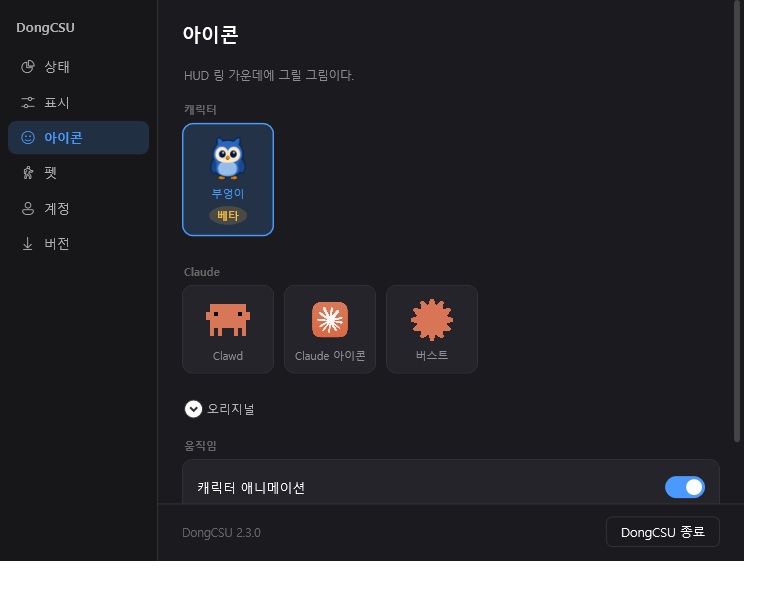
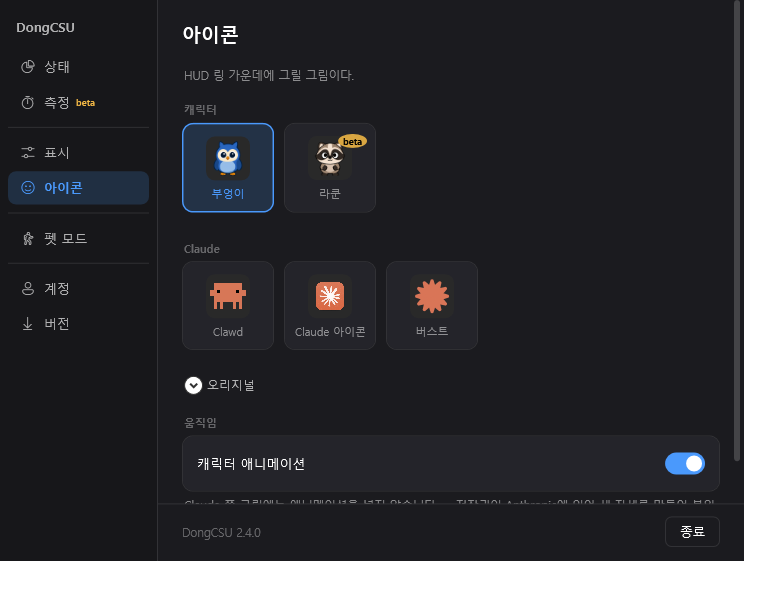
[Win] 📝 2.5.0 문서·스크린샷 갱신

diff --git a/win/docs/handoff.md b/win/docs/handoff.md
@@ -19,8 +19,7 @@
   win/README.md   사용자에게 보이는 설명
 
 지금 상태:
-- 최신 릴리스는 win-v2.1.0. 안 나간 변경이 쌓여 있다(변경 내역 맨 위, 날짜 없는 항목)
-- ** CI 가 지금 빨갛다. 제일 먼저 이것부터 고쳐라 ** — 아래 "지금 깨져 있는 것" 을 봐라
+- 최신 릴리스는 win-v2.4.0. 안 나간 변경이 쌓여 있다(변경 내역 맨 위, 날짜 없는 항목)
 - 개발은 테스트판으로 한다: ./build.ps1 -Test -Run
   설정·기록·자동 시작이 정식판과 갈려 있어 둘을 같이 띄워 비교할 수 있다
 - 기능은 맥에서 먼저 만들어 윈도우로 옮긴다. 맥 버전은 저장소 태그를 봐라
@@ -44,32 +43,6 @@
 
 ---
 
-## 지금 깨져 있는 것 — 윈도우에서 고쳐야 한다
-
-> [!IMPORTANT]
-> **`build` 워크플로의 `win` 잡이 실패 중이다.** 맥 잡은 통과한다.
-> 맥에서 고칠 수 있는 자리가 아니라서 여기 적어 둔다 — 윈도우 쪽 테스트 기대값이다.
-
-**맥 2.4.1 에서 지치는 기준을 낮췄다.** 세션 80% → **75%**, 95% → **90%**.
-임계값은 [`shared/owl.json`](../../shared/owl.json) 한 곳에서 나오고 윈도우도 그걸 읽으므로
-**동작은 이미 맞다.** 틀린 것은 숫자를 손으로 박아 둔 테스트뿐이다.
-
-[`win/tests/DongCSU.Core.Tests/UsageTests.cs`](../tests/DongCSU.Core.Tests/UsageTests.cs) 의
-`사용률로_기분을_고른다` 가 79 → `Idle`, 94 → `Tired` 를 기대하는데 이제 각각
-`Tired`, `Exhausted` 가 나온다.
-
-```csharp
-[InlineData(79, false, OwlMood.Idle)]     // → 74
-[InlineData(80, false, OwlMood.Tired)]    // → 75
-[InlineData(94, false, OwlMood.Tired)]    // → 89
-[InlineData(95, false, OwlMood.Exhausted)] // → 90
-```
-
-**숫자를 다시 박지 말고 `OwlDocument` 에서 읽어 오는 편이 낫다.** 맥에서 기준을 또
-바꾸면 같은 자리가 또 깨진다 — 지금 이게 정확히 두 번째다.
-
-`[Win] 🐛` 로 커밋하고, 윈도우 번호는 윈도우 사정대로 올린다.
-
 ## 맥 쪽에서 옮겨 올 것
 
 | 맥에 있는 것 | 윈도우 |
@@ -80,7 +53,11 @@
 | 아이콘 고르기 (Clawd · Claude 아이콘 · 버스트 마크) | 2.0.0 에서 옮김 |
 | HUD 크기 4단계 · 배경 불투명도 | 2.0.0 에서 옮김 |
 | 접기/펼치기 애니메이션 (0.22초) | 2.1.0 에서 옮김 — **펫 전환만 일부러 곧바로** 바꾼다 |
-| 재로그인을 앱에서 바로 실행 | 없음 — 계정 탭이 안내만 한다 |
+| 재로그인을 앱에서 바로 실행 | 2.3.0 에서 옮김 — 계정 탭 단추는 **2.5.0 부터 늘 보인다** |
+| 창에 붙이기 · 잡는 깊이 | 2.5.0 에서 옮김 |
+| 다른 화면으로 넘어가기 | 2.5.0 에서 옮김 |
+| 모델별 사용량 표시 | 2.5.0 에서 옮김 |
+| 라쿤 캐릭터 | 2.5.0 에서 옮김 |
 
 **옮길 때도 화면 없는 부분을 먼저 `Core` 에 넣고 테스트로 굳혀라.** 맥 쪽 구현은
 `mac/Sources/DongCSU/` 에 있고, 규칙과 이유는 [`mac/CLAUDE.md`](../../mac/CLAUDE.md) 에 있다.
@@ -95,6 +72,10 @@
 | 메모리 기준 | `phys_footprint` | 작업 집합 | 위와 같은 이유 |
 | 갱신한 토큰 | keychain 에 **되돌려 쓴다** | `%APPDATA%\DongCSU\token.json` 에만 둔다 | 아래를 보라 |
 | 펫 복귀 지점 | 저장 안 함 | **저장함** | 파일 설정에서는 공짜다. 펫으로 껐다 켜도 원래 보기로 돌아온다 |
+| 펫 링 지름 | 123 (선을 지름 안에 넣음) | **123** | 2.5.0 에서 124 → 123 으로 맞췄다. 안 잘리는 것은 우리도 같지만 **두 판의 링 크기가 1pt 달랐다** |
+| 넘어갈 때 설 수 있는 자리 | 어느 한 화면에 **온전히** 들어가야 한다 | **부풀린 창의 네 귀퉁이**가 저마다 어느 화면 안이면 된다 | 맥 방식이면 화면 사이에 창 폭+16 의 죽은 띠가 생겨 한 걸음(2.6)으로 못 건넌다 |
+| 계정 탭 초 갱신 | 탭을 통째로 다시 그린다 | **만료 글자 하나만 갈아 끼운다** | 그리는 김에 자격 증명 파일을 훑어서, 매초 그리면 WSL 을 1초마다 깨운다 |
+| 창 목록 | `CGWindowListCopyWindowInfo` | `EnumWindows` + **`DWMWA_EXTENDED_FRAME_BOUNDS`** | `GetWindowRect` 는 보이지 않는 잡는 테두리(좌·우·아래 7~8px)까지 세서, 그대로 붙이면 옆·아래에서만 펫이 뜬다 |
 
 ## 리프레시 토큰은 회전하고, 쓴 것은 즉시 죽는다 — 둘 다 확인했다
 
